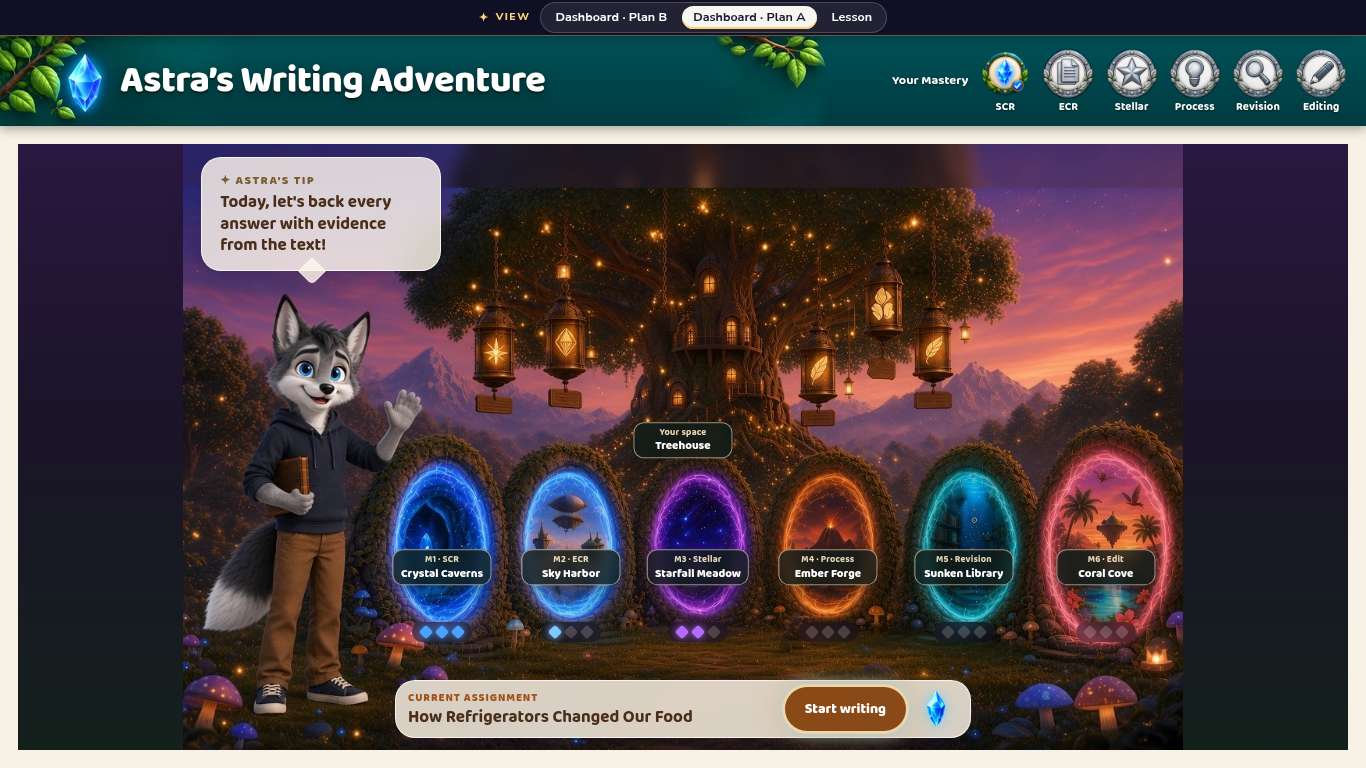
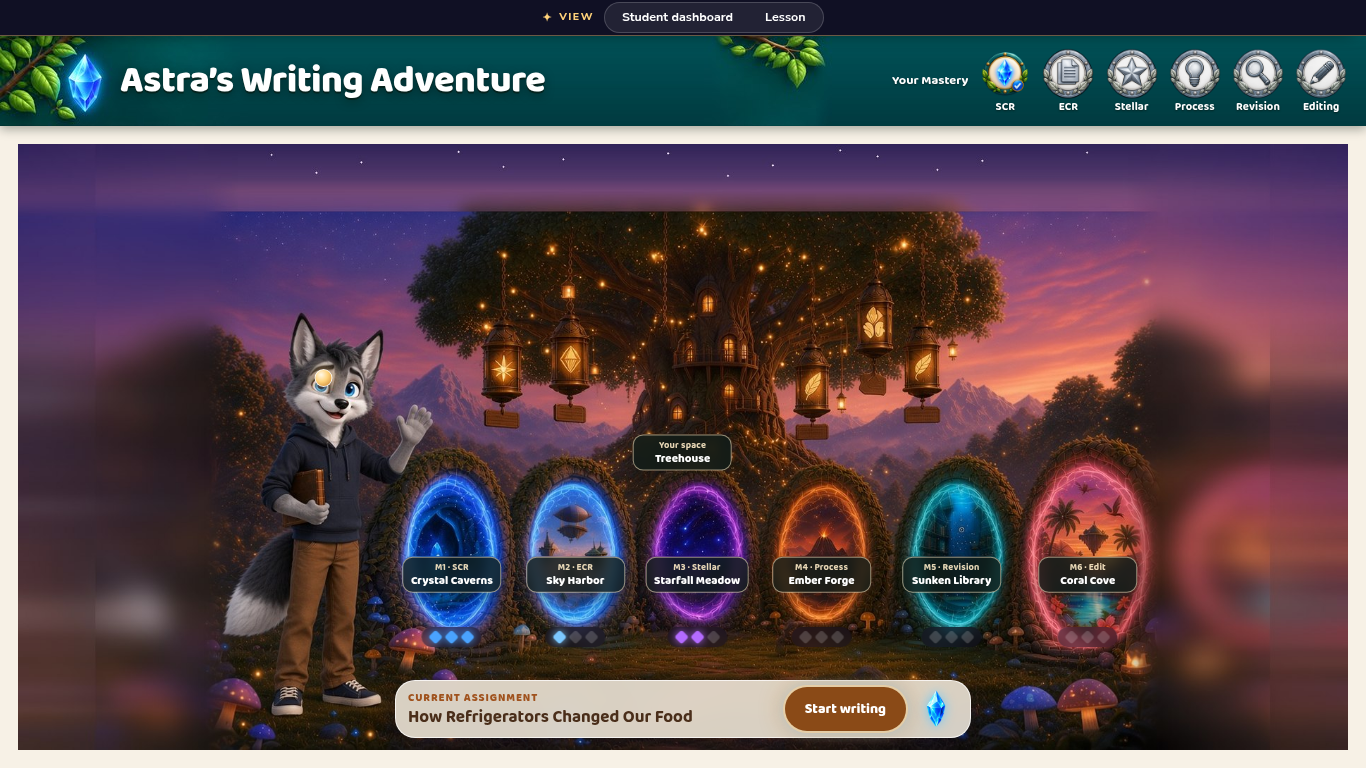
Plan A: extend portal scene edge-to-edge with sky and side fills
Pre-render a 1920x860 portal-hub art with mirrored/blurred forest sides
and a lighter twilight sky above the canopy so 1366x768 and 1280x720
stages fill without dark letterbox bars. Remap hotspots; tip sits over
the open sky beside Astra.

diff --git a/student-dashboard/src/routes/plan-a.tsx b/student-dashboard/src/routes/plan-a.tsx
@@ -53,12 +53,12 @@ const modules: Module[] = [
     short: "SCR",
     world: "Crystal Caverns",
     blurb: "Short constructed responses with clear evidence.",
-    x: 25.9,
-    y: 60,
-    w: 11,
-    h: 28,
-    dotX: 25.9,
-    dotY: 80.5,
+    x: 32.92,
+    y: 61.68,
+    w: 7.79,
+    h: 26.82,
+    dotX: 32.92,
+    dotY: 81.32,
     accent: "#4aa3ff",
     lessons: [
       { title: "Answer the ask", world: "First crystals", minutes: 20, task: "Write a short answer that restates the question." },
@@ -73,12 +73,12 @@ const modules: Module[] = [
     short: "ECR",
     world: "Sky Harbor",
     blurb: "Extended responses that build a full argument.",
-    x: 38.8,
-    y: 60,
-    w: 11,
-    h: 28,
-    dotX: 38.8,
-    dotY: 80.5,
+    x: 42.05,
+    y: 61.68,
+    w: 7.79,
+    h: 26.82,
+    dotX: 42.05,
+    dotY: 81.32,
     accent: "#7cc8ff",
     lessons: [
       { title: "Claim the sky", world: "Docking ring", minutes: 20, task: "Write a clear claim for a longer response." },
@@ -93,12 +93,12 @@ const modules: Module[] = [
     short: "Stellar",
     world: "Starfall Meadow",
     blurb: "Sentences that hold one clear idea.",
-    x: 51.5,
-    y: 60,
-    w: 11,
-    h: 28,
-    dotX: 51.5,
-    dotY: 80.5,
+    x: 51.04,
+    y: 61.68,
+    w: 7.79,
+    h: 26.82,
+    dotX: 51.04,
+    dotY: 81.32,
     accent: "#b46bff",
     lessons: [
       { title: "One complete thought", world: "First stones", minutes: 20, task: "Write three sentences that each say one whole idea." },
@@ -113,12 +113,12 @@ const modules: Module[] = [
     short: "Process",
     world: "Ember Forge",
     blurb: "Read the prompt, take notes, make a plan.",
-    x: 64.5,
-    y: 60,
-    w: 11,
-    h: 28,
-    dotX: 64.5,
-    dotY: 80.5,
+    x: 60.24,
+    y: 61.68,
+    w: 7.79,
+    h: 26.82,
+    dotX: 60.24,
+    dotY: 81.32,
     accent: "#ff9a3c",
     lessons: [
       { title: "Read the prompt", world: "White trunks", minutes: 15, task: "Underline what the prompt is asking you to do." },
@@ -133,12 +133,12 @@ const modules: Module[] = [
     short: "Revision",
     world: "Sunken Library",
     blurb: "Make the draft clearer and stronger.",
-    x: 78.1,
-    y: 60,
-    w: 11,
-    h: 28,
-    dotX: 78.1,
-    dotY: 80.5,
+    x: 69.86,
+    y: 61.68,
+    w: 7.79,
+    h: 26.82,
+    dotX: 69.86,
+    dotY: 81.32,
     accent: "#2fd6c8",
     lessons: [
       { title: "Name the idea", world: "Lookout", minutes: 15, task: "Say what the draft is really about, in one line." },
@@ -153,12 +153,12 @@ const modules: Module[] = [
     short: "Edit",
     world: "Coral Cove",
     blurb: "Polish conventions until the writing is clear.",
-    x: 92.3,
-    y: 60,
-    w: 11,
-    h: 28,
-    dotX: 92.3,
-    dotY: 80.5,
+    x: 79.92,
+    y: 61.68,
+    w: 7.79,
+    h: 26.82,
+    dotX: 79.92,
+    dotY: 81.32,
     accent: "#ff6fa8",
     lessons: [
       { title: "Capitals and stops", world: "Fallen leaves", minutes: 15, task: "Fix sentences that start or end the wrong way." },
@@ -168,16 +168,16 @@ const modules: Module[] = [
   },
 ];
 
-const treehouseSpot = { x: 50, y: 42, w: 13, h: 26 };
-const astraSpot = { x: 9.5, y: 58, w: 13, h: 38 };
-const tipDotSpot = { x: 12.5, y: 36 };
+const treehouseSpot = { x: 49.97, y: 44.43, w: 9.2, h: 24.91 };
+const astraSpot = { x: 21.31, y: 59.76, w: 9.2, h: 36.4 };
+const tipDotSpot = { x: 23.43, y: 38.69 };
 
 /** Four interactive lanterns; any extra lantern in the art stays decorative. */
 const lanterns: Lantern[] = [
-  { id: "goal", label: "My goal", x: 34.5, y: 33.5, w: 5.5, h: 12 },
-  { id: "progress", label: "My progress", x: 41.5, y: 34, w: 5.5, h: 12 },
-  { id: "practice", label: "Practice", x: 63.5, y: 37, w: 5.5, h: 12 },
-  { id: "quick", label: "Quick write", x: 74.5, y: 33.5, w: 5.5, h: 12 },
+  { id: "goal", label: "My goal", x: 39.0, y: 36.29, w: 3.89, h: 11.5 },
+  { id: "progress", label: "My progress", x: 43.96, y: 36.77, w: 3.89, h: 11.5 },
+  { id: "practice", label: "Practice", x: 59.53, y: 39.64, w: 3.89, h: 11.5 },
+  { id: "quick", label: "Quick write", x: 67.32, y: 36.29, w: 3.89, h: 11.5 },
 ];
 
 const assignments = [

diff --git a/student-dashboard/src/styles.css b/student-dashboard/src/styles.css
@@ -1204,21 +1204,20 @@
   .zscene {
     position: absolute;
     inset: 0;
-    display: grid;
-    place-items: center;
+    overflow: hidden;
     container-type: size;
-    background:
-      radial-gradient(ellipse at 50% 8%, rgb(90 55 120 / 0.55), transparent 50%),
-      linear-gradient(180deg, #2a1840 0%, #1a1428 45%, #14201c 100%);
+    background: #3a2848;
   }
 
+  /* Wide extended art (~2.2:1) fills Chromebook stage edge-to-edge */
   .zscene-frame {
-    position: relative;
-    aspect-ratio: 1280 / 776;
-    width: min(100cqw, calc(100cqh * 1280 / 776));
+    position: absolute;
+    left: 50%;
+    top: 50%;
+    translate: -50% -50%;
+    aspect-ratio: 1920 / 860;
+    width: max(100cqw, calc(100cqh * 1920 / 860));
     height: auto;
-    max-width: 100%;
-    max-height: 100%;
   }
 
   .zscene-img {
@@ -1378,9 +1377,9 @@
   .z-tip {
     position: absolute;
     z-index: 6;
-    left: 1.8%;
-    top: 2.2%;
-    width: min(290px, 24%);
+    left: 24%;
+    top: 5%;
+    width: min(290px, 16%);
     border: 1.5px solid rgb(255 255 255 / 0.75);
     border-radius: 20px;
     background: rgb(255 248 235 / 0.82);
